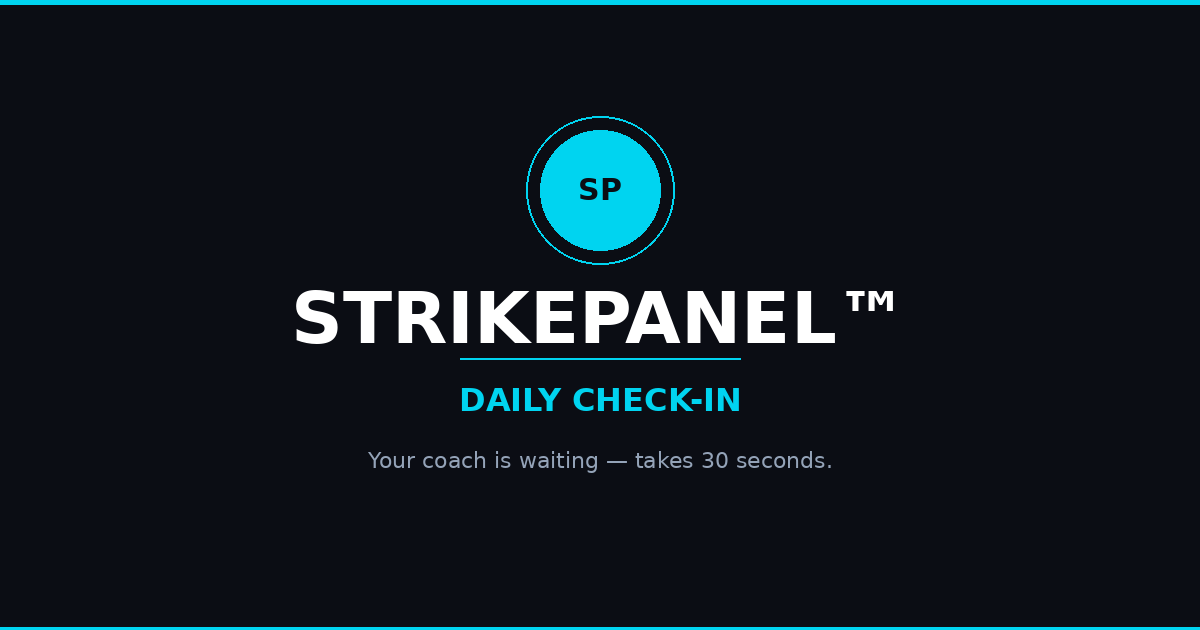
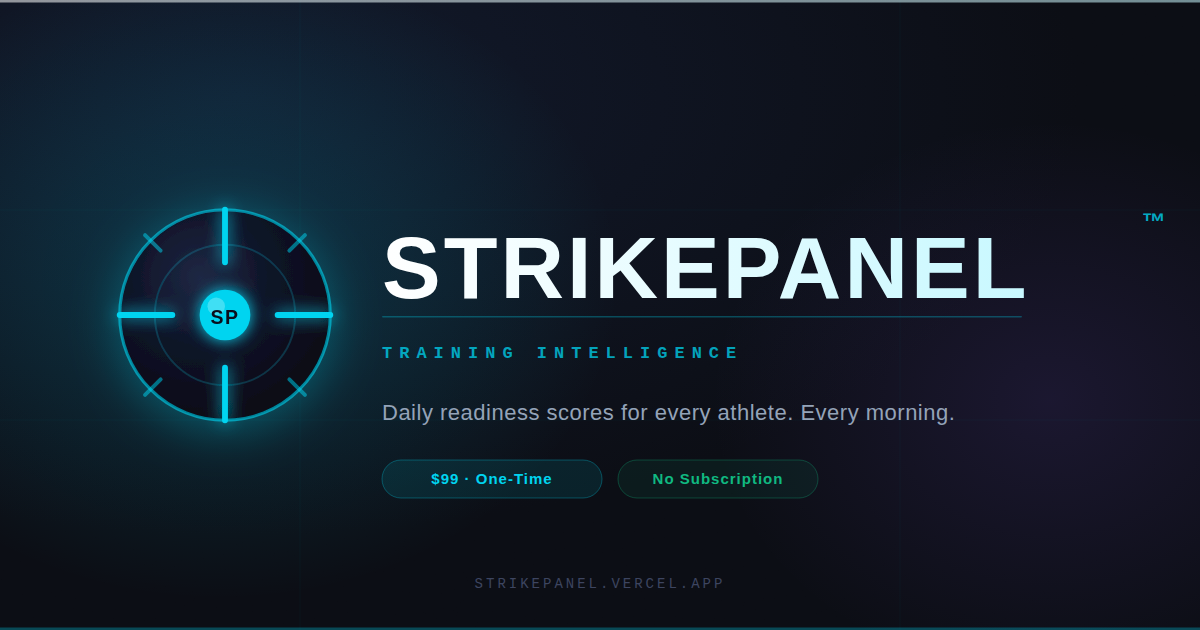
design: premium OG images for app, blog and demo pages
- Rebuilt og.svg using actual StrikePanel logo mark (orb, spokes,
  cardinal lines, SP node) — replaces generic SP-circle placeholder
- Added price/proof pills ($99 One-Time, No Subscription) to main OG
- Created og-blog.svg — Training Intelligence theme with live data
  stat cards (readiness score, fight camp countdown, weight cut)
- Created og-demo.svg — Live Demo theme with feature list cards and
  green accent (Morning Brief, Fight Camp, Weight Cut, AI Session)
- Generated all three as 1200x630 PNG via puppeteer
- Updated blog.html and demo.html OG/Twitter meta tags to use
  their own images
- Added cache headers for og-blog.png and og-demo.png in vercel.json

https://claude.ai/code/session_018Rc4dmFeRNF5az91fj64Xg

diff --git a/demo.html b/demo.html
@@ -9,10 +9,11 @@
 <meta property="og:description" content="Try every feature free — Morning Brief, fight countdowns, AI workouts, boxing timer. No sign-up. Buy once for $99 — launch price."/>
 <meta property="og:type" content="website"/>
 <meta property="og:url" content="https://strikepanel.vercel.app/demo"/>
-<meta property="og:image" content="https://strikepanel.vercel.app/og.png"/>
+<meta property="og:image" content="https://strikepanel.vercel.app/og-demo.png"/>
 <meta property="og:image:width" content="1200"/>
 <meta property="og:image:height" content="630"/>
 <meta name="twitter:card" content="summary_large_image"/>
+<meta name="twitter:image" content="https://strikepanel.vercel.app/og-demo.png"/>
 <meta name="twitter:title" content="StrikePanel™ — Live Demo"/>
 <meta name="twitter:description" content="Try every feature free. No sign-up. Morning Brief, fight countdowns, AI workouts, boxing timer."/>
 <meta name="twitter:image" content="https://strikepanel.vercel.app/og.png"/>

diff --git a/blog.html b/blog.html
@@ -9,8 +9,11 @@
 <meta property="og:description" content="Fight camp planning, readiness tracking, weight cuts and coaching intelligence — expert articles for combat sports coaches."/>
 <meta property="og:type" content="website"/>
 <meta property="og:url" content="https://strikepanel.vercel.app/blog"/>
-<meta property="og:image" content="https://strikepanel.vercel.app/og.png"/>
+<meta property="og:image" content="https://strikepanel.vercel.app/og-blog.png"/>
+<meta property="og:image:width" content="1200"/>
+<meta property="og:image:height" content="630"/>
 <meta name="twitter:card" content="summary_large_image"/>
+<meta name="twitter:image" content="https://strikepanel.vercel.app/og-blog.png"/>
 <meta name="robots" content="index,follow"/>
 <link rel="canonical" href="https://strikepanel.vercel.app/blog"/>
 <link rel="preconnect" href="https://fonts.googleapis.com">
